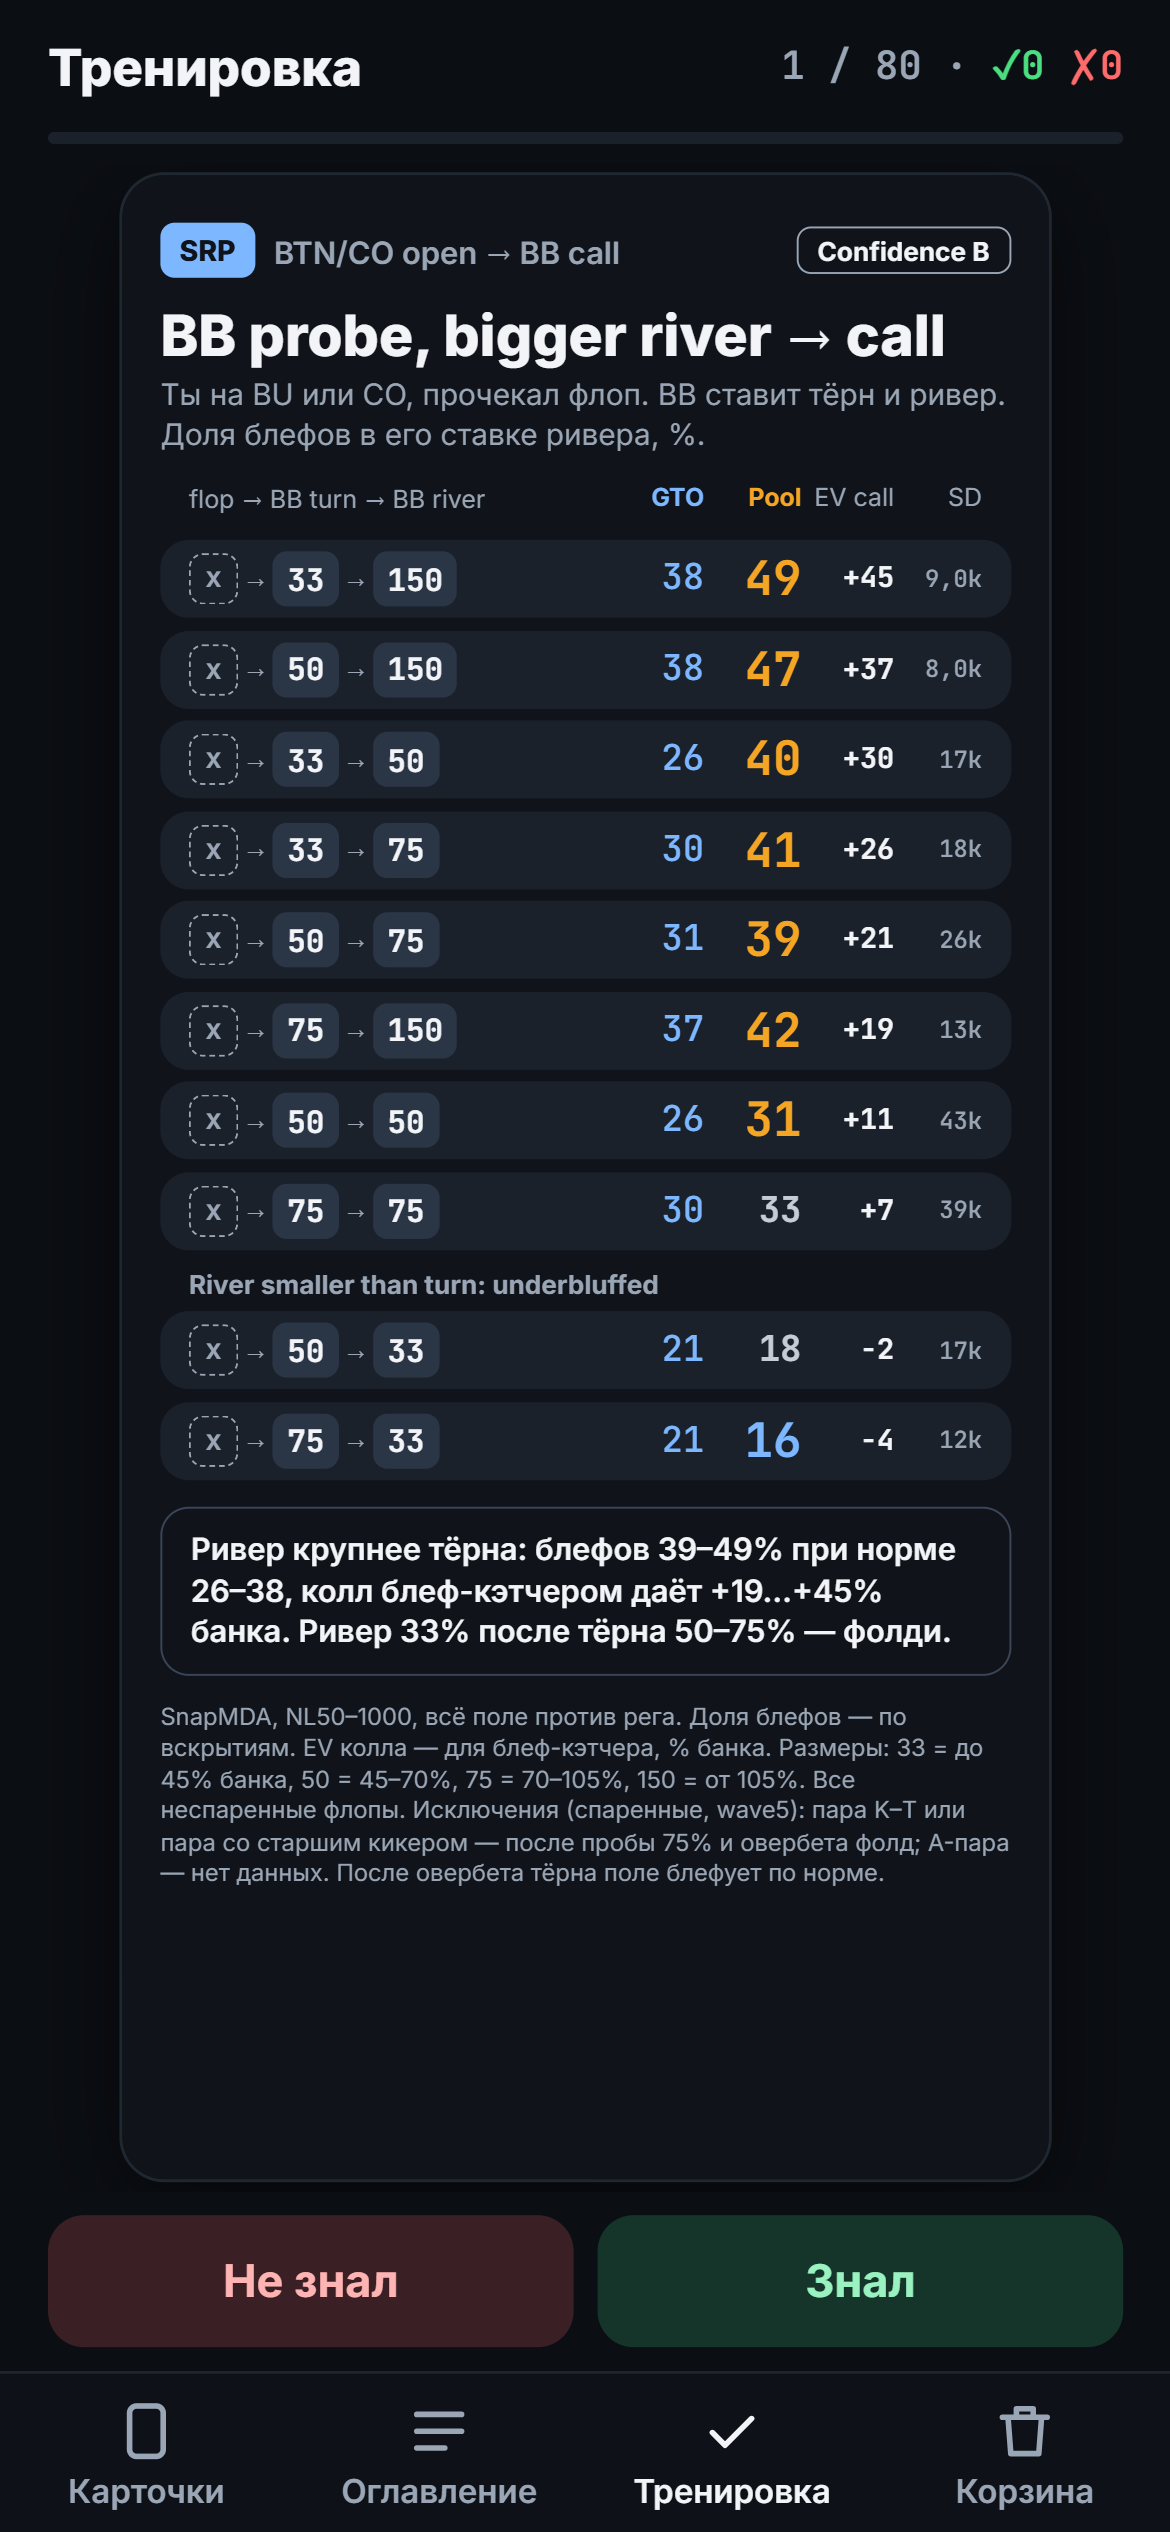
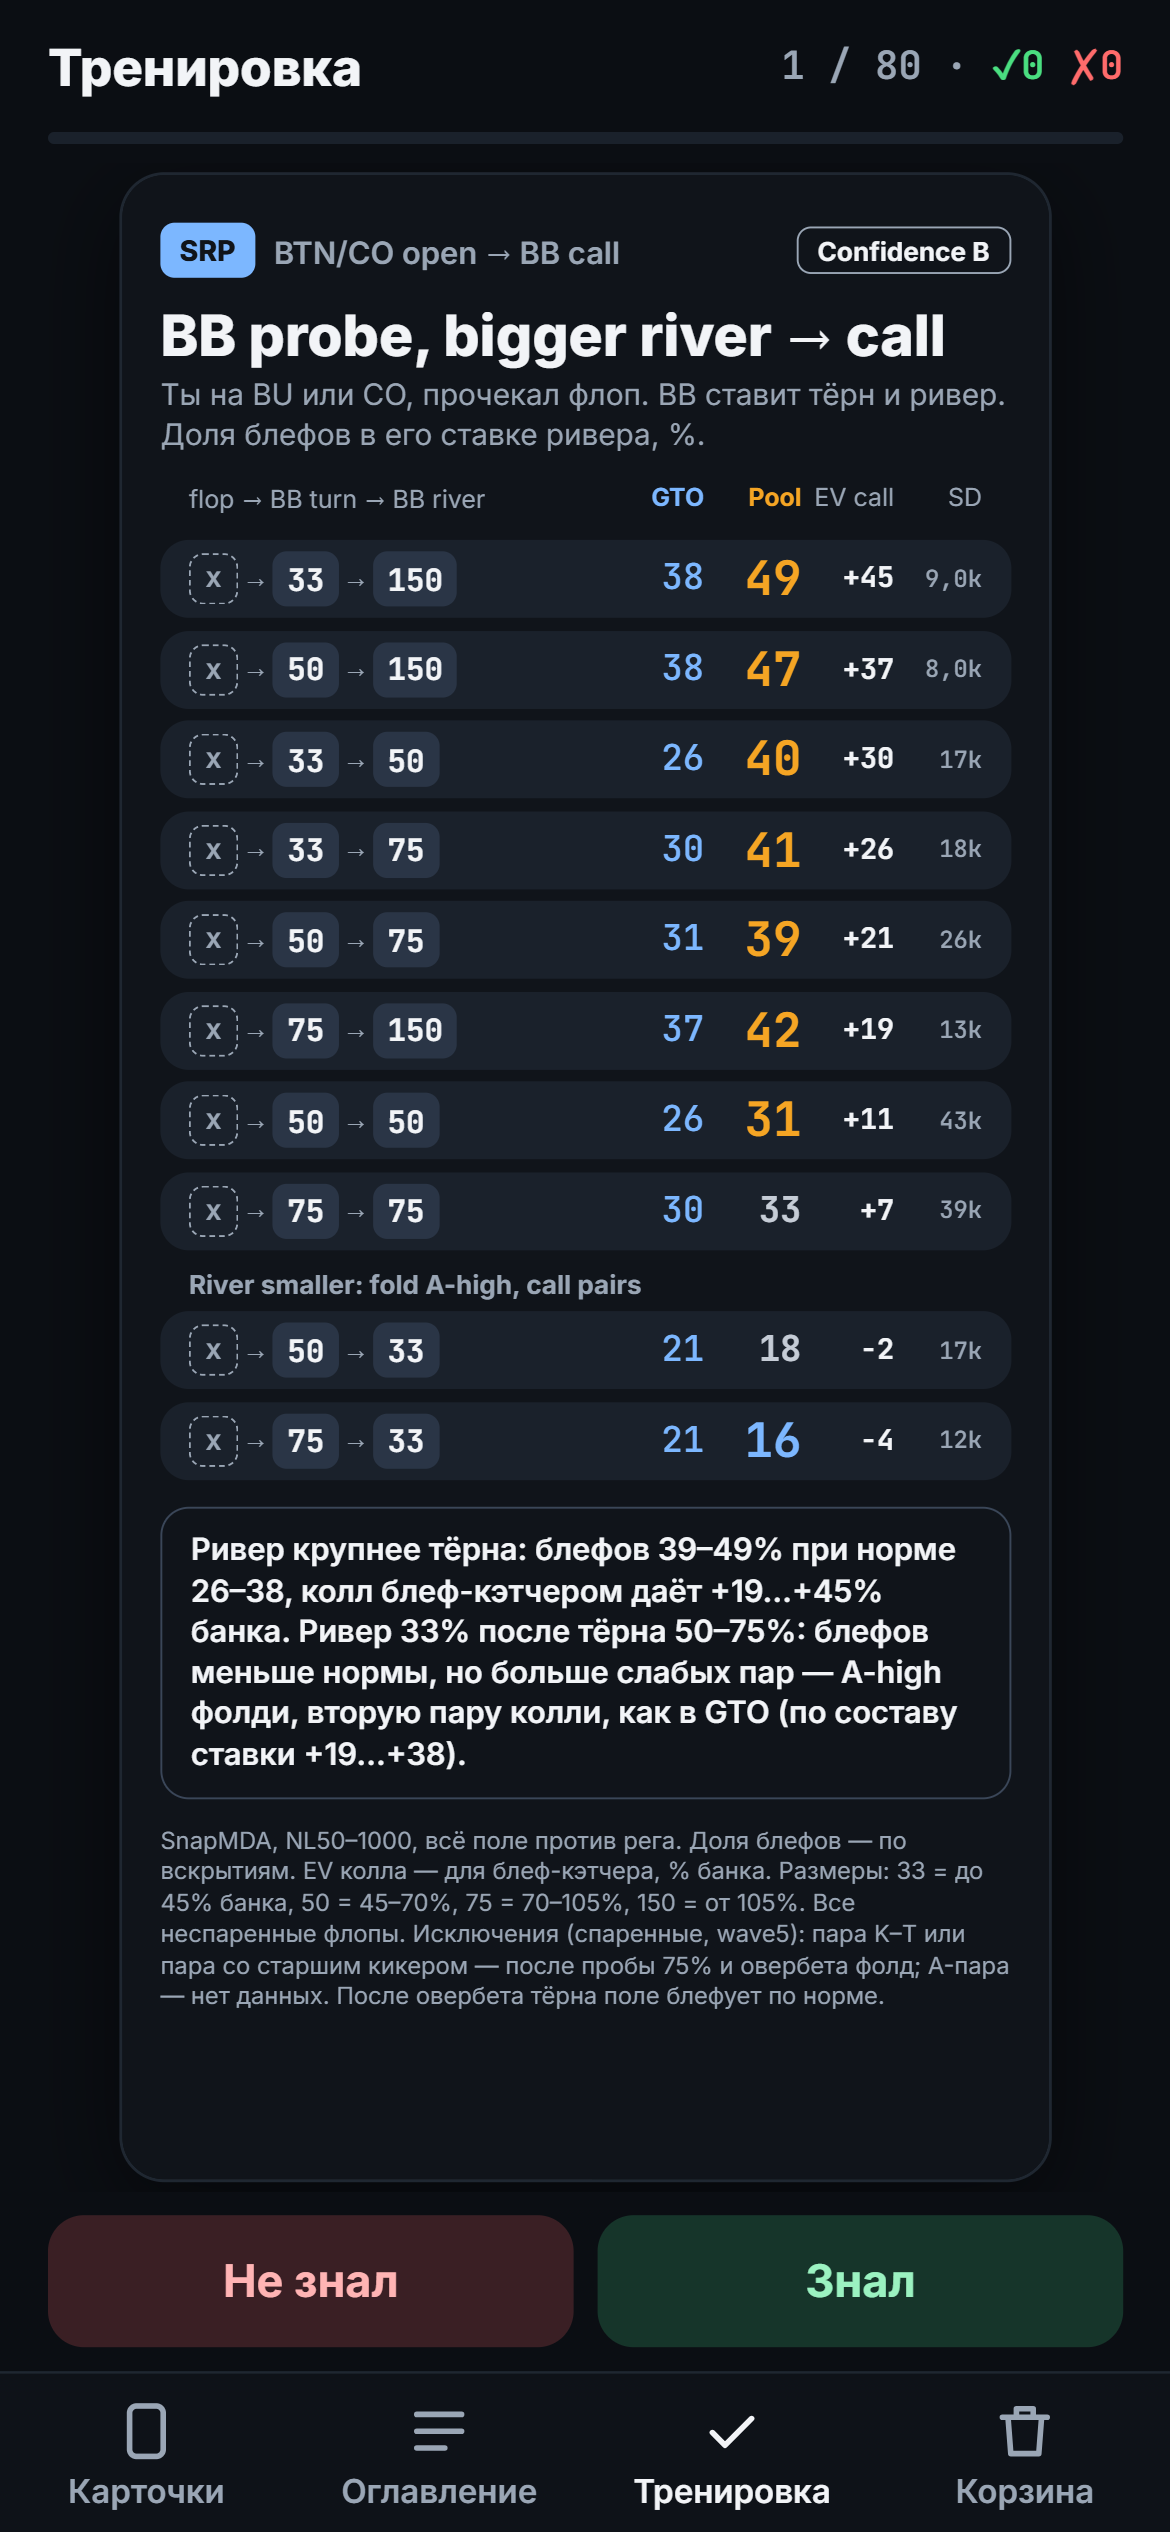
01, 04, 8-08: small river after barrels - fewer bluffs but more thin value: fold A-high, call pairs (range composition), v40

Changed region(s): [[0.1231, 0.624, 0.8615, 0.8112], [0.3077, 0.4992, 0.5538, 0.5304]]

diff --git a/cards/01.html b/cards/01.html
@@ -62,7 +62,7 @@ body{margin:0}
 <span style="text-align: right; font: 700 15px/1 'JetBrains Mono',ui-monospace,Menlo,monospace; color: #C5CCD6">33</span>
 <span style="text-align: right; font: 700 12px/1 'JetBrains Mono',ui-monospace,Menlo,monospace; color: #F2F4F7">+7</span>
 <span style="text-align: right; font: 500 10px/1 'JetBrains Mono',ui-monospace,Menlo,monospace; color: #9AA6B5">39k</span>
-</div><div style="padding: 3px 12px 0; font-size: 11px; font-weight: 700; color: #9AA6B5">River smaller than turn: underbluffed</div><div style="display: grid; grid-template-columns: 1fr 30px 38px 36px 34px; align-items: center; column-gap: 3px; padding: 5px 12px; border-radius: 12px; background: #1A212B; ">
+</div><div style="padding: 3px 12px 0; font-size: 11px; font-weight: 700; color: #9AA6B5">River smaller: fold A-high, call pairs</div><div style="display: grid; grid-template-columns: 1fr 30px 38px 36px 34px; align-items: center; column-gap: 3px; padding: 5px 12px; border-radius: 12px; background: #1A212B; ">
 <div style="display: flex; align-items: center; gap: 4px"><span style="padding: 4px 6px; border-radius: 6px; border: 1px dashed #9AA6B5; color: #9AA6B5; font: 700 12px/1 'JetBrains Mono',ui-monospace,Menlo,monospace">x</span><span style="color: #9AA6B5; font: 500 11px/1 'JetBrains Mono',ui-monospace,Menlo,monospace">→</span><span style="padding: 5px 6px; border-radius: 6px; background: #2A3546; color: #F2F4F7; font: 700 13px/1 'JetBrains Mono',ui-monospace,Menlo,monospace">50</span><span style="color: #9AA6B5; font: 500 11px/1 'JetBrains Mono',ui-monospace,Menlo,monospace">→</span><span style="padding: 5px 6px; border-radius: 6px; background: #2A3546; color: #F2F4F7; font: 700 13px/1 'JetBrains Mono',ui-monospace,Menlo,monospace">33</span></div>
 <span style="text-align: right; font: 500 15px/1 'JetBrains Mono',ui-monospace,Menlo,monospace; color: #7CB7FF">21</span>
 <span style="text-align: right; font: 700 15px/1 'JetBrains Mono',ui-monospace,Menlo,monospace; color: #C5CCD6">18</span>
@@ -75,6 +75,6 @@ body{margin:0}
 <span style="text-align: right; font: 700 12px/1 'JetBrains Mono',ui-monospace,Menlo,monospace; color: #F2F4F7">−4</span>
 <span style="text-align: right; font: 500 10px/1 'JetBrains Mono',ui-monospace,Menlo,monospace; color: #9AA6B5">12k</span>
 </div></div>
-<div style="padding: 9px 12px; border-radius: 12px; border: 1px solid #3A4658; font-size: 13px; font-weight: 600; line-height: 1.33">Ривер крупнее тёрна: блефов 39–49% при норме 26–38, колл блеф-кэтчером даёт +19…+45% банка. Ривер 33% после тёрна 50–75% — фолди.</div>
+<div style="padding: 9px 12px; border-radius: 12px; border: 1px solid #3A4658; font-size: 13px; font-weight: 600; line-height: 1.33">Ривер крупнее тёрна: блефов 39–49% при норме 26–38, колл блеф-кэтчером даёт +19…+45% банка. Ривер 33% после тёрна 50–75%: блефов меньше нормы, но больше слабых пар — A-high фолди, вторую пару колли, как в GTO (по составу ставки +19…+38).</div>
 <p style="margin: 0; font-size: 10px; line-height: 1.32; color: #9AA6B5">SnapMDA, NL50–1000, всё поле против рега. Доля блефов — по вскрытиям. EV колла — для блеф-кэтчера, % банка. Размеры: 33 = до 45% банка, 50 = 45–70%, 75 = 70–105%, 150 = от 105%. Все неспаренные флопы. Исключения (спаренные, wave5): пара K–T или пара со старшим кикером — после пробы 75% и овербета фолд; A-пара — нет данных. После овербета тёрна поле блефует по норме.</p>
 </div>

diff --git a/cards/8-08.html b/cards/8-08.html
@@ -56,7 +56,7 @@ body{margin:0}
 <span style="text-align: right; font: 700 20px/1 'JetBrains Mono',ui-monospace,Menlo,monospace; color: #F5A524">35</span>
 <span style="text-align: right; font: 700 12px/1 'JetBrains Mono',ui-monospace,Menlo,monospace; color: #F2F4F7">+9</span>
 <span style="text-align: right; font: 500 10px/1 'JetBrains Mono',ui-monospace,Menlo,monospace; color: #9AA6B5">4,2k</span>
-</div><div style="padding: 3px 12px 0; font-size: 11px; font-weight: 700; color: #9AA6B5">Norm or fold: river not bigger than turn</div><div style="display: grid; grid-template-columns: 1fr 30px 38px 36px 34px; align-items: center; column-gap: 3px; padding: 5px 12px; border-radius: 12px; background: #1A212B; ">
+</div><div style="padding: 3px 12px 0; font-size: 11px; font-weight: 700; color: #9AA6B5">River ≤ turn: fold A-high, call pairs</div><div style="display: grid; grid-template-columns: 1fr 30px 38px 36px 34px; align-items: center; column-gap: 3px; padding: 5px 12px; border-radius: 12px; background: #1A212B; ">
 <div style="display: flex; align-items: center; gap: 4px"><span style="padding: 5px 6px; border-radius: 6px; background: #2A3546; color: #F2F4F7; font: 700 13px/1 'JetBrains Mono',ui-monospace,Menlo,monospace">50</span><span style="color: #9AA6B5; font: 500 11px/1 'JetBrains Mono',ui-monospace,Menlo,monospace">→</span><span style="padding: 5px 6px; border-radius: 6px; background: #2A3546; color: #F2F4F7; font: 700 13px/1 'JetBrains Mono',ui-monospace,Menlo,monospace">50</span><span style="color: #9AA6B5; font: 500 11px/1 'JetBrains Mono',ui-monospace,Menlo,monospace">→</span><span style="padding: 5px 6px; border-radius: 6px; background: #2A3546; color: #F2F4F7; font: 700 13px/1 'JetBrains Mono',ui-monospace,Menlo,monospace">50</span></div>
 <span style="text-align: right; font: 500 15px/1 'JetBrains Mono',ui-monospace,Menlo,monospace; color: #7CB7FF">26</span>
 <span style="text-align: right; font: 700 15px/1 'JetBrains Mono',ui-monospace,Menlo,monospace; color: #C5CCD6">27</span>
@@ -81,6 +81,6 @@ body{margin:0}
 <span style="text-align: right; font: 700 12px/1 'JetBrains Mono',ui-monospace,Menlo,monospace; color: #F2F4F7">−7</span>
 <span style="text-align: right; font: 500 10px/1 'JetBrains Mono',ui-monospace,Menlo,monospace; color: #9AA6B5">3,0k</span>
 </div></div>
-<div style="padding: 9px 12px; border-radius: 12px; border: 1px solid #3A4658; font-size: 13px; font-weight: 600; line-height: 1.33">Ривер крупнее тёрна после мелкого флопа — колл: 33%+50%+75% (поле 44, GTO 31, +33), 33%+75%+150% (+44), 33%+33%+75% (+27). 33%+75%+75% — колл +16. Ривер 33% после флопа 50% (50+50+33, 50+33+33) — недоблеф, фолди (−5…−7).</div>
+<div style="padding: 9px 12px; border-radius: 12px; border: 1px solid #3A4658; font-size: 13px; font-weight: 600; line-height: 1.33">Ривер крупнее тёрна после мелкого флопа — колл: 33%+50%+75% (поле 44, GTO 31, +33), 33%+75%+150% (+44), 33%+33%+75% (+27). 33%+75%+75% — колл +16. Ривер 33% после флопа 50%: блефов меньше, но больше слабых пар — A-high фолди, 2-ю пару колли (+27…+43).</div>
 <p style="margin: 0; font-size: 10px; line-height: 1.32; color: #9AA6B5">SnapMDA, NL50–200, против рега, BB vs SB, все флопы (по текстурам — после сбора w27). Доля блефов — по вскрытиям, EV колла — блеф-кэтчером, % банка. Размеры — корзины SnapMDA: 33 = до 40% банка, 50 = 45–60%, 75 = 65–100%, 150 = овербет больше 100% (в среднем 150–170%).</p>
 </div>

diff --git a/cards/04.html b/cards/04.html
@@ -68,7 +68,7 @@ body{margin:0}
 <span style="text-align: right; font: 700 20px/1 'JetBrains Mono',ui-monospace,Menlo,monospace; color: #F5A524">33</span>
 <span style="text-align: right; font: 700 12px/1 'JetBrains Mono',ui-monospace,Menlo,monospace; color: #F2F4F7">+14</span>
 <span style="text-align: right; font: 500 10px/1 'JetBrains Mono',ui-monospace,Menlo,monospace; color: #9AA6B5">6,0k</span>
-</div><div style="padding: 3px 12px 0; font-size: 11px; font-weight: 700; color: #9AA6B5">Small river: underbluffed</div><div style="display: grid; grid-template-columns: 1fr 30px 38px 36px 34px; align-items: center; column-gap: 3px; padding: 5px 12px; border-radius: 12px; background: #1A212B; ">
+</div><div style="padding: 3px 12px 0; font-size: 11px; font-weight: 700; color: #9AA6B5">Small river: fold A-high, call pairs</div><div style="display: grid; grid-template-columns: 1fr 30px 38px 36px 34px; align-items: center; column-gap: 3px; padding: 5px 12px; border-radius: 12px; background: #1A212B; ">
 <div style="display: flex; align-items: center; gap: 4px"><span style="padding: 5px 6px; border-radius: 6px; background: #2A3546; color: #F2F4F7; font: 700 13px/1 'JetBrains Mono',ui-monospace,Menlo,monospace">50</span><span style="color: #9AA6B5; font: 500 11px/1 'JetBrains Mono',ui-monospace,Menlo,monospace">→</span><span style="padding: 5px 6px; border-radius: 6px; background: #2A3546; color: #F2F4F7; font: 700 13px/1 'JetBrains Mono',ui-monospace,Menlo,monospace">50</span><span style="color: #9AA6B5; font: 500 11px/1 'JetBrains Mono',ui-monospace,Menlo,monospace">→</span><span style="padding: 5px 6px; border-radius: 6px; background: #2A3546; color: #F2F4F7; font: 700 13px/1 'JetBrains Mono',ui-monospace,Menlo,monospace">33</span></div>
 <span style="text-align: right; font: 500 15px/1 'JetBrains Mono',ui-monospace,Menlo,monospace; color: #7CB7FF">20</span>
 <span style="text-align: right; font: 700 20px/1 'JetBrains Mono',ui-monospace,Menlo,monospace; color: #7CB7FF">15</span>
@@ -81,6 +81,6 @@ body{margin:0}
 <span style="text-align: right; font: 700 12px/1 'JetBrains Mono',ui-monospace,Menlo,monospace; color: #F2F4F7">−4</span>
 <span style="text-align: right; font: 500 10px/1 'JetBrains Mono',ui-monospace,Menlo,monospace; color: #9AA6B5">4,3k</span>
 </div></div>
-<div style="padding: 9px 12px; border-radius: 12px; border: 1px solid #3A4658; font-size: 13px; font-weight: 600; line-height: 1.33">После контбета 33% крупный ривер SB переблефован: 75% — 36–42% блефов при норме 31, овербет — 48–52% при норме 38. Ривер 33% после ставок 50% — фолди.</div>
+<div style="padding: 9px 12px; border-radius: 12px; border: 1px solid #3A4658; font-size: 13px; font-weight: 600; line-height: 1.33">После контбета 33% крупный ривер SB переблефован: 75% — 36–42% блефов при норме 31, овербет — 48–52% при норме 38. Ривер 33% после ставок 50%: блефов меньше нормы, но больше слабых пар — A-high фолди, вторую пару колли (по составу ставки +27…+43).</div>
 <p style="margin: 0; font-size: 10px; line-height: 1.32; color: #9AA6B5">SnapMDA, NL50–1000, всё поле против рега. Доля блефов — по вскрытиям. EV колла — для блеф-кэтчера, % банка. Размеры: 33 = до 45% банка, 50 = 45–70%, 75 = 70–105%, 150 = от 105%. По овербетам 1,7–4,3 тыс. вскрытий.</p>
 </div>

diff --git a/sw.js b/sw.js
@@ -1,6 +1,6 @@
 // Service worker: офлайн-кэш приложения и карточек.
 // При изменении оболочки приложения увеличьте VERSION.
-const VERSION = 'v39';
+const VERSION = 'v40';
 const CACHE = 'poker-cards-' + VERSION;
 const SHELL = [
   './', 'index.html', 'app.css', 'app.js', 'manifest.json', 'cards.json',
